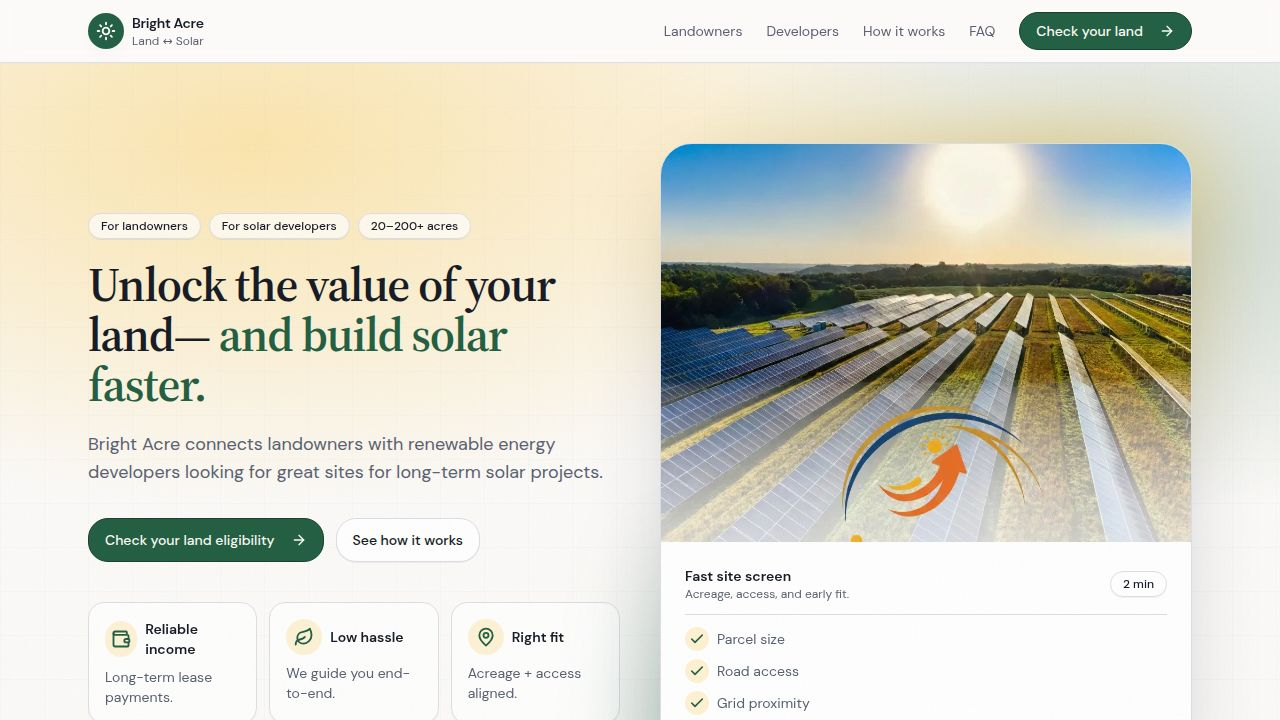
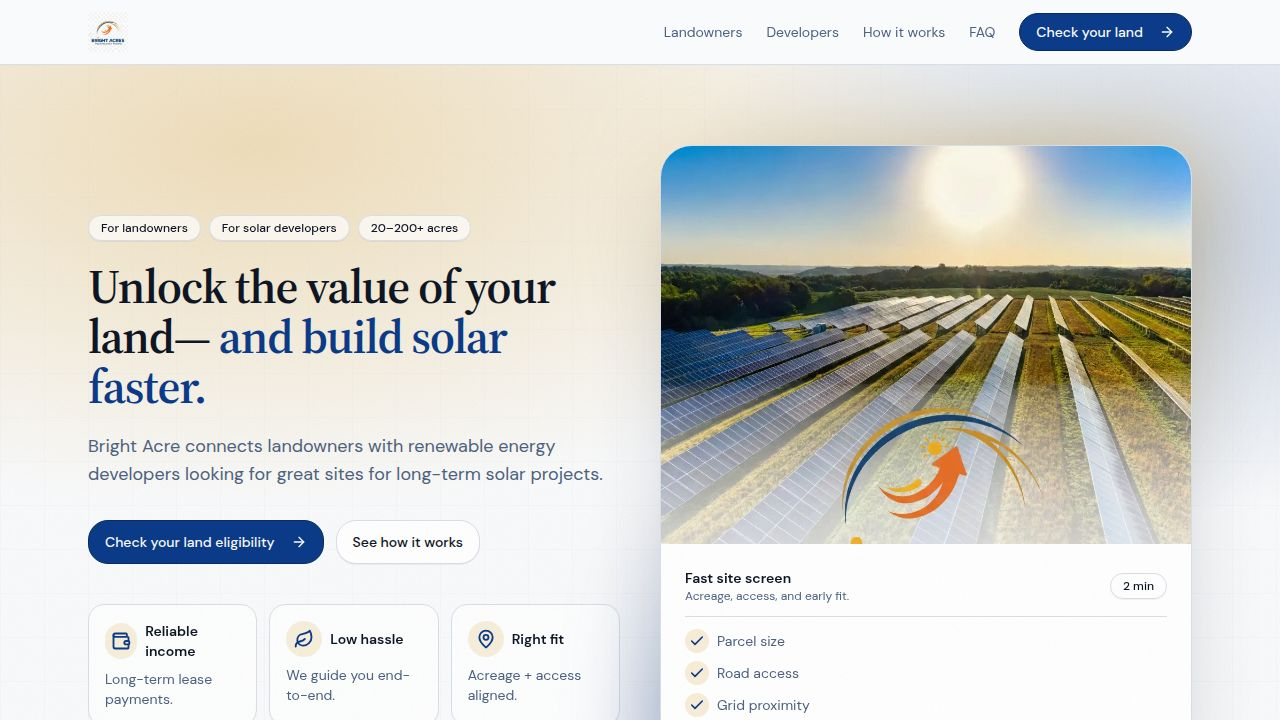
Add a dedicated developers page and update site navigation
Adds a new `/developers` route and component, updates the `App.tsx` routing to include the new page, and modifies `Home.tsx` to include the Bright Acres logo and update navigation links to use `wouter`'s `Link` component for client-side routing.

Replit-Commit-Author: Agent
Replit-Commit-Session-Id: 135055e9-1b59-4c2a-9acd-7553e8724500
Replit-Commit-Checkpoint-Type: full_checkpoint
Replit-Commit-Event-Id: 773e7ac2-a2ec-4487-9fff-245136ca0105
Replit-Commit-Screenshot-Url: https://storage.googleapis.com/screenshot-production-us-central1/c39dc53c-6365-4db7-9b8b-d8ffc65660a0/135055e9-1b59-4c2a-9acd-7553e8724500/q56QYxj
Replit-Helium-Checkpoint-Created: true

diff --git a/client/src/pages/developers.tsx b/client/src/pages/developers.tsx
@@ -1,0 +1,158 @@
+import logo from "@assets/bright-acre-logo_1770141425405.png";
+import { useMemo, useState } from "react";
+import { AnimatePresence, motion } from "framer-motion";
+import {
+  ArrowRight,
+  ChevronDown,
+  Sun,
+  Check,
+  Zap,
+  Globe,
+  BarChart3,
+  Search,
+  FileText,
+  Users
+} from "lucide-react";
+import { Button } from "@/components/ui/button";
+import { Card, CardContent } from "@/components/ui/card";
+import { Link } from "wouter";
+
+function TopNav({ onCta }: { onCta: () => void }) {
+  const [open, setOpen] = useState(false);
+  const links = useMemo(() => [
+    { href: "/", label: "Landowners" },
+    { href: "/developers", label: "Developers" },
+    { href: "#", label: "How it works" },
+    { href: "#", label: "FAQ" },
+  ], []);
+
+  return (
+    <header className="sticky top-0 z-50 border-b bg-background/70 backdrop-blur">
+      <div className="mx-auto flex max-w-6xl items-center justify-between px-4 py-3 md:px-6">
+        <Link href="/" className="group inline-flex items-center gap-2">
+          <img src={logo} alt="Bright Acres Logo" className="h-10 w-auto" />
+        </Link>
+        <nav className="hidden items-center gap-6 md:flex">
+          {links.map((l) => (
+            <Link key={l.label} href={l.href} className="text-sm text-muted-foreground transition-colors hover:text-foreground">
+              {l.label}
+            </Link>
+          ))}
+          <Button onClick={onCta} className="rounded-xl">Request Site Pipeline <ArrowRight className="ml-2 h-4 w-4" /></Button>
+        </nav>
+        <div className="flex items-center md:hidden">
+          <Button onClick={() => setOpen(!open)} variant="outline" className="rounded-xl">Menu <ChevronDown className="ml-2 h-4 w-4" /></Button>
+        </div>
+      </div>
+      <AnimatePresence>
+        {open && (
+          <motion.div initial={{ height: 0, opacity: 0 }} animate={{ height: "auto", opacity: 1 }} exit={{ height: 0, opacity: 0 }} className="border-t bg-background p-4 md:hidden">
+            <div className="grid gap-3">
+              {links.map((l) => (
+                <Link key={l.label} href={l.href} onClick={() => setOpen(false)} className="rounded-xl border bg-card px-4 py-3 text-sm">{l.label}</Link>
+              ))}
+            </div>
+          </motion.div>
+        )}
+      </AnimatePresence>
+    </header>
+  );
+}
+
+export default function Developers() {
+  return (
+    <div className="min-h-screen">
+      <TopNav onCta={() => {}} />
+      <main>
+        {/* Hero Section */}
+        <section className="relative overflow-hidden py-20 px-4 md:px-6">
+          <div className="absolute inset-0 bg-grid opacity-[0.2]" />
+          <div className="relative mx-auto max-w-6xl">
+            <div className="max-w-3xl">
+              <h1 className="text-4xl font-semibold leading-tight md:text-6xl">
+                Scale Your Solar Portfolio with <span className="text-primary">Precision-Sourced Sites.</span>
+              </h1>
+              <p className="mt-6 text-lg text-muted-foreground md:text-xl">
+                Bright Acre provides utility-scale solar developers with a high-fidelity pipeline of pre-screened land leads. Stop hunting and start developing.
+              </p>
+              <div className="mt-10 flex flex-col gap-4 sm:flex-row">
+                <Button size="lg" className="rounded-xl">Request Access to Pipeline</Button>
+                <Button size="lg" variant="outline" className="rounded-xl">View Screening Criteria</Button>
+              </div>
+            </div>
+          </div>
+        </section>
+
+        {/* Feature Grid */}
+        <section className="bg-muted/30 py-20 px-4 md:px-6">
+          <div className="mx-auto max-w-6xl">
+            <div className="grid gap-8 md:grid-cols-3">
+              {[
+                { icon: Search, title: "High-Fidelity Sourcing", desc: "Our proprietary GIS analysis identifies parcels with optimal slope, aspect, and minimal environmental constraints." },
+                { icon: Zap, title: "Grid-Ready Insights", desc: "Each lead includes proximity to sub-stations and transmission lines, significantly reducing interconnection risk." },
+                { icon: FileText, title: "LOI-Ready Leads", desc: "We engage landowners early, ensuring they understand the solar leasing process before we pass the lead to you." }
+              ].map((f, idx) => (
+                <Card key={idx} className="rounded-2xl border bg-card shadow-sm">
+                  <CardContent className="p-8">
+                    <f.icon className="h-10 w-10 text-primary" />
+                    <h3 className="mt-6 text-xl font-semibold">{f.title}</h3>
+                    <p className="mt-4 text-muted-foreground leading-relaxed">{f.desc}</p>
+                  </CardContent>
+                </Card>
+              ))}
+            </div>
+          </div>
+        </section>
+
+        {/* Technical Capabilities */}
+        <section className="py-20 px-4 md:px-6">
+          <div className="mx-auto max-w-6xl">
+            <div className="grid gap-12 md:grid-cols-2 items-center">
+              <div>
+                <h2 className="text-3xl font-semibold md:text-4xl">Data-Driven Site Selection</h2>
+                <p className="mt-6 text-muted-foreground text-lg">
+                  We don't just find land; we find the *right* land. Our platform leverages multiple data layers to ensure every site in your pipeline has a clear path to permitting and construction.
+                </p>
+                <ul className="mt-8 space-y-4">
+                  {[
+                    "Topographical & Hydrological Screening",
+                    "Interconnection Capacity Analysis",
+                    "Landowner Relation Management",
+                    "Streamlined Title & Encumbrance Review"
+                  ].map((t) => (
+                    <li key={t} className="flex items-center gap-3">
+                      <div className="h-6 w-6 rounded-full bg-primary/10 flex items-center justify-center">
+                        <Check className="h-4 w-4 text-primary" />
+                      </div>
+                      <span className="font-medium">{t}</span>
+                    </li>
+                  ))}
+                </ul>
+              </div>
+              <div className="rounded-3xl border bg-card p-4 shadow-xl">
+                 <div className="aspect-video bg-muted rounded-2xl flex items-center justify-center overflow-hidden">
+                    <BarChart3 className="h-20 w-20 text-muted-foreground/30" />
+                 </div>
+              </div>
+            </div>
+          </div>
+        </section>
+
+        {/* Developer Trust */}
+        <section className="bg-primary text-primary-foreground py-20 px-4 md:px-6 rounded-t-[3rem]">
+          <div className="mx-auto max-w-4xl text-center">
+             <h2 className="text-3xl font-semibold md:text-5xl">Your Infrastructure-Scale Partner.</h2>
+             <p className="mt-6 text-primary-foreground/80 text-lg md:text-xl leading-relaxed">
+               Bright Acre operates at the intersection of institutional stability and renewable innovation. We understand the complexities of multi-year development cycles and provide the consistency your capital deserves.
+             </p>
+             <div className="mt-12 flex justify-center gap-8 opacity-50 grayscale invert">
+                <Globe className="h-12 w-12" />
+                <Users className="h-12 w-12" />
+                <Sun className="h-12 w-12" />
+             </div>
+          </div>
+        </section>
+      </main>
+    </div>
+  );
+}

diff --git a/client/src/pages/home.tsx b/client/src/pages/home.tsx
@@ -1,3 +1,4 @@
+import logo from "@assets/bright-acre-logo_1770141425405.png";
 import { useEffect, useMemo, useState } from "react";
 import { AnimatePresence, motion } from "framer-motion";
 import {
@@ -15,6 +16,7 @@ import { Card, CardContent } from "@/components/ui/card";
 import { Separator } from "@/components/ui/separator";
 import { Input } from "@/components/ui/input";
 import { Textarea } from "@/components/ui/textarea";
+import { Link } from "wouter";
 
 const container = {
   hidden: { opacity: 0 },
@@ -80,8 +82,8 @@ function TopNav({ onCta }: { onCta: () => void }) {
 
   const links = useMemo(
     () => [
-      { href: "#landowners", label: "Landowners" },
-      { href: "#developers", label: "Developers" },
+      { href: "/", label: "Landowners" },
+      { href: "/developers", label: "Developers" },
       { href: "#process", label: "How it works" },
       { href: "#faq", label: "FAQ" },
     ],
@@ -91,35 +93,35 @@ function TopNav({ onCta }: { onCta: () => void }) {
   return (
     <header className="sticky top-0 z-50 border-b bg-background/70 backdrop-blur">
       <div className="mx-auto flex max-w-6xl items-center justify-between px-4 py-3 md:px-6">
-        <a
-          href="#"
+        <Link
+          href="/"
           data-testid="link-home"
           className="group inline-flex items-center gap-2"
         >
-          <span className="relative grid h-9 w-9 place-items-center rounded-xl bg-[hsl(var(--primary))] text-[hsl(var(--primary-foreground))] shadow-[var(--shadow-sm)]">
-            <Sun className="h-5 w-5" strokeWidth={2.2} />
-          </span>
-          <div className="leading-tight">
-            <div
-              data-testid="text-brand"
-              className="text-sm font-semibold tracking-tight"
-            >
-              Bright Acre
-            </div>
-            <div className="text-xs text-muted-foreground">Land ↔ Solar</div>
-          </div>
-        </a>
+          <img src={logo} alt="Bright Acres Logo" className="h-10 w-auto" />
+        </Link>
 
         <nav className="hidden items-center gap-6 md:flex">
           {links.map((l) => (
-            <a
-              key={l.href}
-              data-testid={`link-nav-${l.label.toLowerCase().replace(/\s+/g, "-")}`}
-              href={l.href}
-              className="text-sm text-muted-foreground transition-colors hover:text-foreground"
-            >
-              {l.label}
-            </a>
+            l.href.startsWith("#") ? (
+              <a
+                key={l.label}
+                data-testid={`link-nav-${l.label.toLowerCase().replace(/\s+/g, "-")}`}
+                href={l.href}
+                className="text-sm text-muted-foreground transition-colors hover:text-foreground"
+              >
+                {l.label}
+              </a>
+            ) : (
+              <Link
+                key={l.label}
+                data-testid={`link-nav-${l.label.toLowerCase().replace(/\s+/g, "-")}`}
+                href={l.href}
+                className="text-sm text-muted-foreground transition-colors hover:text-foreground"
+              >
+                {l.label}
+              </Link>
+            )
           ))}
           <Button
             data-testid="button-nav-cta"
@@ -161,15 +163,27 @@ function TopNav({ onCta }: { onCta: () => void }) {
             <div className="mx-auto max-w-6xl px-4 py-4 md:px-6">
               <div className="grid gap-3">
                 {links.map((l) => (
-                  <a
-                    key={l.href}
-                    data-testid={`link-mobile-${l.label.toLowerCase().replace(/\s+/g, "-")}`}
-                    href={l.href}
-                    className="rounded-xl border bg-card px-4 py-3 text-sm shadow-[var(--shadow-xs)]"
-                    onClick={() => setOpen(false)}
-                  >
-                    {l.label}
-                  </a>
+                   l.href.startsWith("#") ? (
+                    <a
+                      key={l.label}
+                      data-testid={`link-mobile-${l.label.toLowerCase().replace(/\s+/g, "-")}`}
+                      href={l.href}
+                      className="rounded-xl border bg-card px-4 py-3 text-sm shadow-[var(--shadow-xs)]"
+                      onClick={() => setOpen(false)}
+                    >
+                      {l.label}
+                    </a>
+                  ) : (
+                    <Link
+                      key={l.label}
+                      data-testid={`link-mobile-${l.label.toLowerCase().replace(/\s+/g, "-")}`}
+                      href={l.href}
+                      className="rounded-xl border bg-card px-4 py-3 text-sm shadow-[var(--shadow-xs)]"
+                      onClick={() => setOpen(false)}
+                    >
+                      {l.label}
+                    </Link>
+                  )
                 ))}
                 <Button
                   data-testid="button-mobile-cta-2"

diff --git a/client/src/App.tsx b/client/src/App.tsx
@@ -5,11 +5,13 @@ import { Toaster } from "@/components/ui/toaster";
 import { TooltipProvider } from "@/components/ui/tooltip";
 import NotFound from "@/pages/not-found";
 import Home from "@/pages/home";
+import Developers from "@/pages/developers";
 
 function Router() {
   return (
     <Switch>
       <Route path="/" component={Home} />
+      <Route path="/developers" component={Developers} />
       <Route component={NotFound} />
     </Switch>
   );
